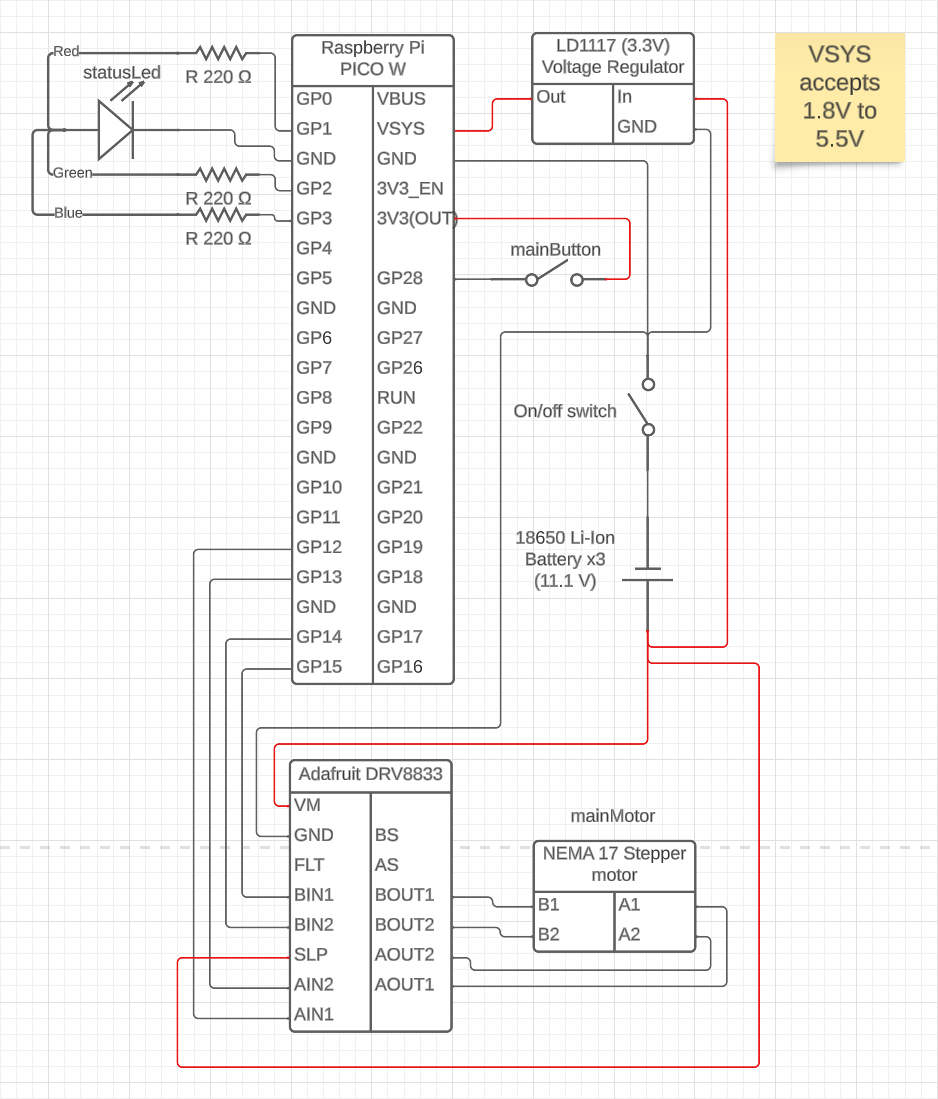
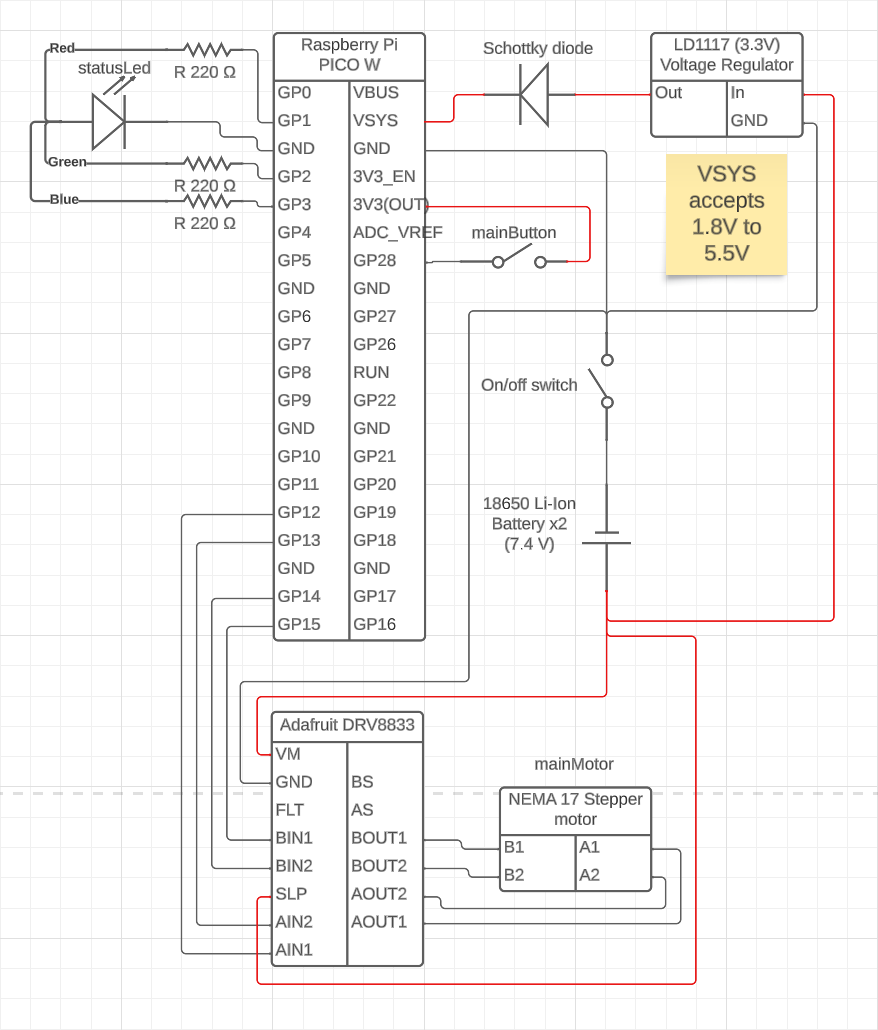
Added Schottky diode as suggestion

diff --git a/projects/dumb-door/dumb-door.md b/projects/dumb-door/dumb-door.md
@@ -15,7 +15,6 @@ Related to [3D printed dumb door project](https://github.com/gardehal/3d-printin
 - logging potential issue reading/writing to file across threads still
 - final adjustments for stepper steps to lock/unlock door and some way to calibrate (e.g. move lock to one extreme or other)
 - finish DD class and let main call its run func
-- add diode for Volt regulator to prevent backfeeding
 
 ## Circuit Diagram
  
@@ -36,6 +35,7 @@ Related to [3D printed dumb door project](https://github.com/gardehal/3d-printin
 - 4x M5 x 12mm bolts/screws + nuts (2x is fine)
 - 1x push spring (7.5mm x 13mm), cut in half
 - 1x LD1117 3.3V voltage regulator
+- 1x Schottky diode (optional)
 
 ## Setup guide
 
@@ -129,6 +129,7 @@ NB: The first part of this relates to 3D printed parts over at [this repo](https
 
 #### Bad
 
+- Going into this I had limited knowledge of some of the electronics in real world cases which caused a lot of delays and some expensive mistakes. However,  this was a good learning experience.
 - Initial design was bad and relied on impossible physics, did not think it through.
 - The brain-case module could've been better designed, the face plate with components should be removable for easier access to sensors on the face of the case (e.g. make face and bottom a single piece). Making it a little flatter and wider it could include a battery and make for an OK remote controller while still including the half-sized breadboard. Alternatively longer and thinner with a micro breadboard.
 - NEMA 17 is rated for 12V, currently runs on 8.4V (2x 18650 batteries). Ideally a third one should be added to bump up voltage to 11.1 but it seems to be OK. This could and should have been predicated and incorporated from the start, since redesigns will include changes to the frame which currently is not worth the cost-benefit.
